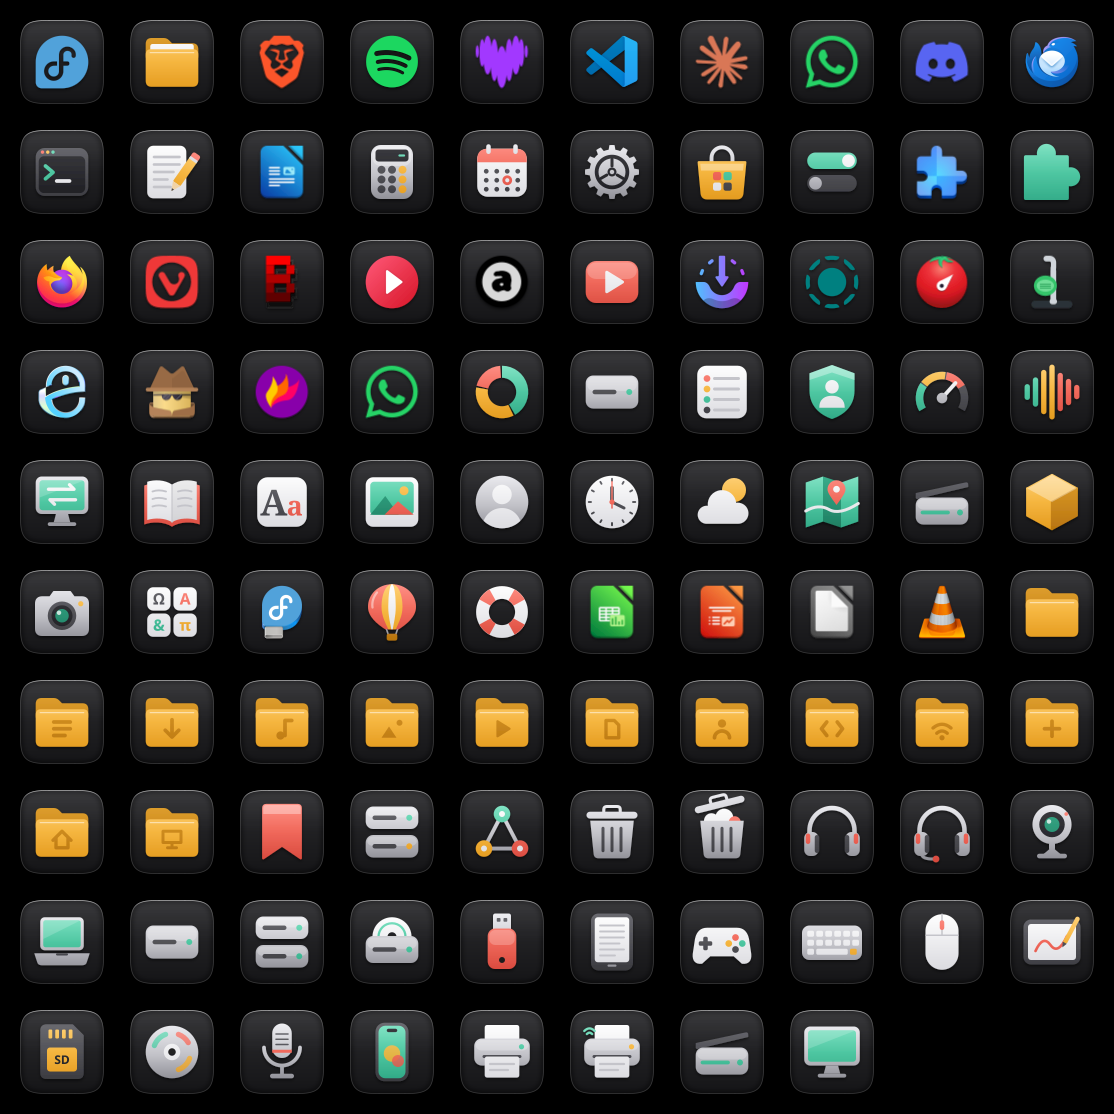
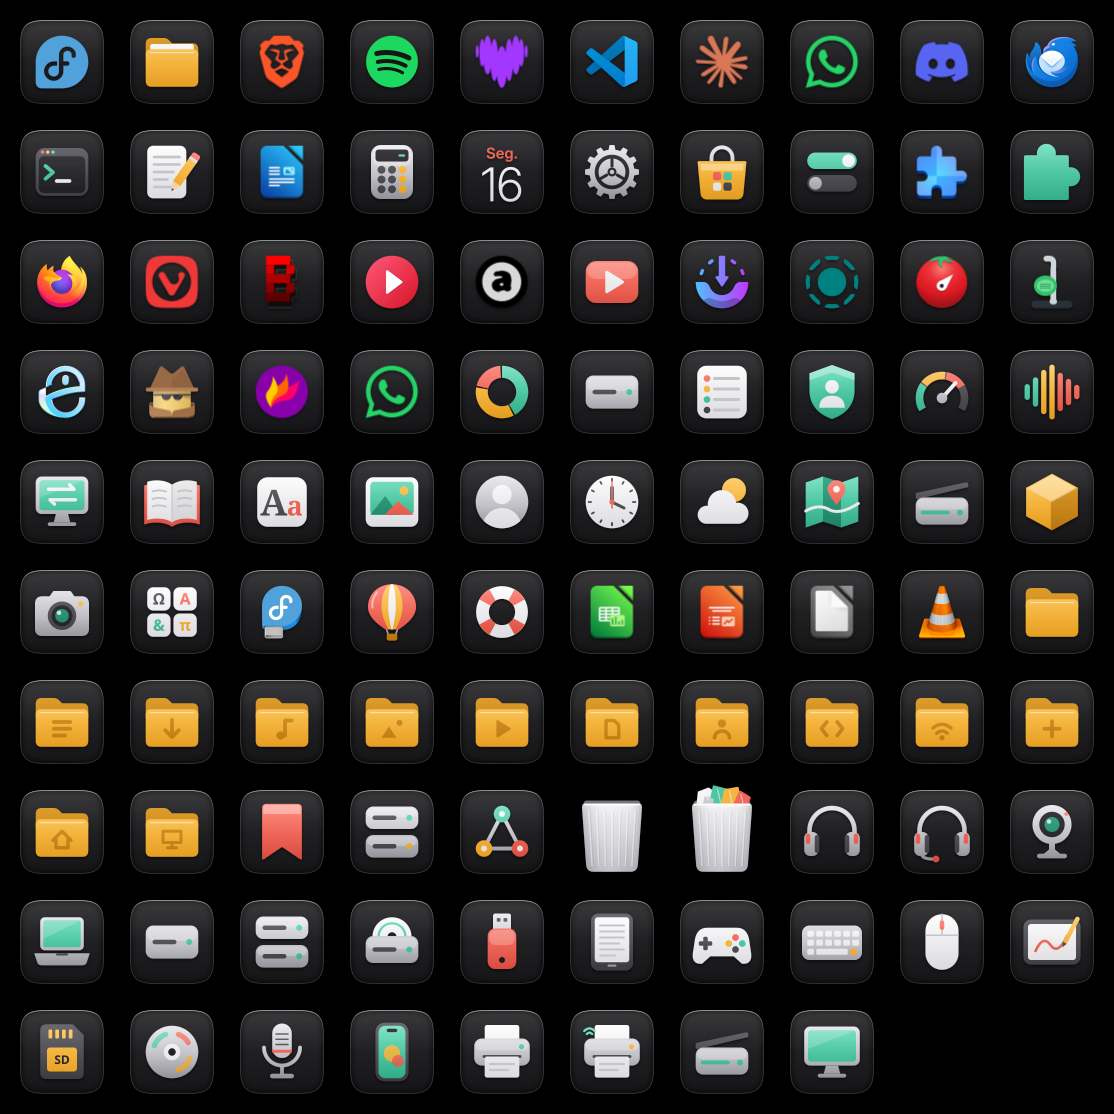
Calendário com a data de hoje e lixeira solta
- Calendário no estilo iOS escuro: dia da semana em coral e o número do
  dia grande; systemd/brisa-icons.timer regera o tema à meia-noite
- Lixeira sem tile, como no dock do Mac: cesto cinza translúcido e, cheia,
  papéis amassados em coral, âmbar e menta (fonte "solto:")
- Corrige o glifo inserido duas vezes por causa do marcador citado no
  comentário do template (o tema cai de 3,2 MB para 2,2 MB)

Changed region(s): [[0.4883, 0.702, 0.702, 0.7935], [0.4273, 0.1221, 0.4883, 0.1831]]

diff --git a/glifos.py b/glifos.py
@@ -149,9 +149,6 @@ def tela(x, y, w, h):
 
 NUVEM = "M44 93 A12 12 0 1 1 45.1 69.1 A19 19 0 1 1 82.9 65.2 A14 14 0 1 1 85 93 Z"
 PECA = "M34 46 H50 A9 9 0 1 1 66 46 H82 V61 A9 9 0 1 1 82 77 V94 H34 Z"
-LIXEIRA_CORPO = "M35 49 H93 L88.5 93 Q88 99 82 99 H46 Q40 99 39.5 93 Z"
-LIXEIRA_TAMPA = (FR(30, 37, 68, 9, 4.5, "prata")
-                 + S("M53 37 V34 Q53 30 57 30 H71 Q75 30 75 34 V37", "prata", 4))
 CONTROLE = ("M44 46 H84 Q96 46 99 60 L102 80 Q103 93 91 92 L80 82 H48 L37 92 "
             "Q25 93 26 80 L29 60 Q32 46 44 46 Z")
 
@@ -173,6 +170,63 @@ def fones(mic=False):
          + FR(29, 66, 6, 14, 3, "coral") + FR(93, 66, 6, 14, 3, "coral"))
     if mic:
         s += S("M37 94 Q38 100 52 100", "prata", 4) + FC(56, 100, 4.5, "coral")
+    return s
+
+
+FONTE_UI = "Adwaita Sans, Inter, Cantarell, sans-serif"
+
+
+def calendario_hoje():
+    """Calendário com a data de HOJE, no estilo do iOS escuro: dia da semana em
+    coral em cima e o número do dia grande e fino. O tema é regerado todo dia
+    à meia-noite (systemd/brisa-icons.timer) para a data acompanhar."""
+    import datetime
+    import locale
+    try:
+        locale.setlocale(locale.LC_TIME, "")
+    except locale.Error:
+        pass
+    hoje = datetime.date.today()
+    semana = hoje.strftime("%a").strip(".").capitalize()
+    if (locale.getlocale(locale.LC_TIME)[0] or "").startswith("pt"):
+        semana += "."          # "Seg.", "Ter.", ...
+    return (T(64, 46, semana, 20, "#F0685A", FONTE_UI, "600")
+            + T(64, 103, str(hoje.day), 62, "branco", FONTE_UI, "300"))
+
+
+# Lixeira "solta" (sem tile, como no dock do Mac): cesto cinza translúcido,
+# levemente afunilado, com frisos verticais; cheia, mostra papéis amassados.
+LIXEIRA_CORPO = "M24 31 Q24 26 29 26 H99 Q104 26 104 31 L98.5 108 Q97.5 117 88.5 117 H39.5 Q30.5 117 29.5 108 Z"
+LIXEIRA_DEFS = (
+    '<defs>'
+    '<linearGradient id="cesto" x1="0" y1="26" x2="0" y2="117" gradientUnits="userSpaceOnUse">'
+    '<stop offset="0" stop-color="#F7F7FA"/><stop offset="1" stop-color="#B9B9C1"/></linearGradient>'
+    '<linearGradient id="cesto-lados" x1="24" y1="0" x2="104" y2="0" gradientUnits="userSpaceOnUse">'
+    '<stop offset="0" stop-color="#000" stop-opacity="0.16"/><stop offset="0.28" stop-color="#FFF" stop-opacity="0.10"/>'
+    '<stop offset="0.5" stop-color="#FFF" stop-opacity="0.22"/><stop offset="0.75" stop-color="#FFF" stop-opacity="0"/>'
+    '<stop offset="1" stop-color="#000" stop-opacity="0.18"/></linearGradient>'
+    '</defs>')
+
+
+def lixeira(cheia=False):
+    s = LIXEIRA_DEFS + FR(26, 22, 76, 9, 4.5, "#76767D")          # boca (fundo escuro)
+    if cheia:
+        papeis = (("M31 30 L33 11 L46 6 L56 13 L54 30 Z", "#F4F4F7"),
+                  ("M47 30 L53 3 L72 8 L70 30 Z", "#4FC7A2"),
+                  ("M63 30 L68 8 L85 5 L89 30 Z", "#F5B53F"),
+                  ("M79 30 L88 10 L101 18 L97 30 Z", "#F0685A"),
+                  ("M39 30 L42 17 L52 21 L50 30 Z", "#C9C9CF"))
+        for d, cor in papeis:
+            s += FS(d, cor, 2.5)
+        s += S("M39 12 L47 22 M58 7 L62 24 M74 9 L77 25 M89 14 L92 25", "#FFFFFF", 1.5,
+               ' stroke-opacity="0.55"')
+    s += f'<path d="{LIXEIRA_CORPO}" fill="url(#cesto)" fill-opacity="0.96"/>'
+    s += f'<path d="{LIXEIRA_CORPO}" fill="url(#cesto-lados)"/>'
+    for i in range(7):                                             # frisos
+        xt, xb = 33 + i * 10.3, 37.5 + i * 8.83
+        s += S(f"M{xt:.1f} 36 L{xb:.1f} 109", "#FFFFFF", 1.6, ' stroke-opacity="0.45"')
+        s += S(f"M{xt + 2:.1f} 36 L{xb + 1.7:.1f} 109", "#000000", 1, ' stroke-opacity="0.07"')
+    s += S("M27 27.5 H101", "#FFFFFF", 2, ' stroke-opacity="0.9"')  # borda da boca
     return s
 
 
@@ -203,12 +257,7 @@ DESENHOS = {
                     + "".join(FC(x, y, 5.3, "ambar" if x == 78 else "grafite")
                               for y in (61, 74, 87) for x in (50, 64, 78))),
 
-    "calendario": (FR(31, 33, 66, 64, 14, "branco")
-                   + F("M31 47 Q31 33 45 33 H83 Q97 33 97 47 V51 H31 Z", "coral")
-                   + FR(43, 27, 6, 13, 3, "prata") + FR(79, 27, 6, 13, 3, "prata")
-                   + "".join(FC(x, y, 3.2, "grafite")
-                             for y in (63, 75, 87) for x in (43, 57, 71, 85) if (x, y) != (71, 75))
-                   + FC(71, 75, 6.5, "coral") + FC(71, 75, 2.8, "branco")),
+    "calendario": calendario_hoje(),
 
     "configuracoes": (F(engrenagem(64, 64, 36, 30, 12, 8.5, 5.5), "prata")
                       + FC(64, 64, 23, "grafite-escuro")
@@ -352,12 +401,8 @@ DESENHOS = {
     "rede": (S("M64 40 L40 86 M64 40 L88 86 M40 86 H88", "prata", 5)
              + FC(64, 40, 11, "menta") + FC(40, 86, 11, "ambar") + FC(88, 86, 11, "coral")
              + FC(64, 40, 4, "branco") + FC(40, 86, 4, "branco") + FC(88, 86, 4, "branco")),
-    "lixeira": (LIXEIRA_TAMPA + F(LIXEIRA_CORPO, "prata")
-                + S("M52 59 V89 M64 59 V89 M76 59 V89", "grafite", 4)),
-    "lixeira-cheia": (FC(50, 49, 10, "branco") + FC(67, 45, 12, "branco") + FC(81, 51, 8, "coral")
-                      + F(LIXEIRA_CORPO, "prata")
-                      + S("M52 59 V89 M64 59 V89 M76 59 V89", "grafite", 4)
-                      + G(LIXEIRA_TAMPA, "translate(-2 -6) rotate(-14 30 42)")),
+    "lixeira": lixeira(),
+    "lixeira-cheia": lixeira(cheia=True),
 
     # Dispositivos
     "fones": fones(),
@@ -527,8 +572,8 @@ ICONES_FIXOS = [
     ("Favoritos", "Lugares", "desenho:favoritos", ["user-bookmarks"], "places"),
     ("Servidor", "Lugares", "desenho:servidor", ["network-server"], "places"),
     ("Rede", "Lugares", "desenho:rede", ["network-workgroup"], "places"),
-    ("Lixeira", "Lugares", "desenho:lixeira", ["user-trash"], "places"),
-    ("Lixeira cheia", "Lugares", "desenho:lixeira-cheia", ["user-trash-full"], "places"),
+    ("Lixeira", "Lugares", "solto:lixeira", ["user-trash"], "places"),
+    ("Lixeira cheia", "Lugares", "solto:lixeira-cheia", ["user-trash-full"], "places"),
 
     ("Fones", "Dispositivos", "desenho:fones", ["audio-headphones"], "devices"),
     ("Headset", "Dispositivos", "desenho:headset", ["audio-headset"], "devices"),

diff --git a/gerar.py b/gerar.py
@@ -306,6 +306,8 @@ def montar_glifo(fonte, nome_icone):
     tipo, _, arg = fonte.partition(":")
     if tipo == "desenho":
         return DESENHOS[arg], "desenho próprio"
+    if tipo == "solto":
+        return DESENHOS[arg], "desenho próprio, sem tile"
     if tipo == "simple":
         _, licenca = SIMPLE_ICONS[arg]
         return logo_simple_icons(arg), f"Simple Icons: {arg} ({licenca})"
@@ -318,8 +320,12 @@ def montar_glifo(fonte, nome_icone):
 
 
 # ── Geração ───────────────────────────────────────────────────────────────
-def montar(template, corpo):
+def montar(template, corpo, tile=True):
     corpo = "\n".join("    " + parte for parte in corpo.replace("><", ">\n<").splitlines())
+    if not tile:
+        template = re.sub(r"\s*<!-- tile:inicio.*?<!-- tile:fim -->", "", template, flags=re.S)
+    # O marcador fica sozinho numa linha; o comentário do template não o repete.
+    assert template.count("{{GLIFO}}") == 1, "tile.svg deve ter um único {{GLIFO}}"
     return template.replace("{{GLIFO}}", corpo)
 
 
@@ -338,7 +344,7 @@ def escrever_index():
 def gerar():
     template = TEMPLATE.read_text()
     faltando = [f for _, _, f, _, _ in APPS + ICONES_FIXOS
-                if f.startswith("desenho:") and f[8:] not in DESENHOS
+                if f.split(":")[0] in ("desenho", "solto") and f.split(":", 1)[1] not in DESENHOS
                 or f.startswith("simple:") and f[7:] not in SIMPLE_ICONS]
     if faltando:
         sys.exit(f"Fontes não definidas em glifos.py: {', '.join(faltando)}")
@@ -360,7 +366,7 @@ def gerar():
         if corpo is None:
             problemas.append((rotulo, fonte, nomes[0], descricao, None))
             return
-        svg = montar(template, corpo)
+        svg = montar(template, corpo, tile=not fonte.startswith("solto:"))
         for nome in nomes:
             (novo / contexto / f"{nome}.svg").write_text(svg)
             escritos[nome] = rotulo

diff --git a/README.md b/README.md
@@ -19,6 +19,10 @@ tile escuro de vidro.
      (Arquivos, Configurações, Calculadora, Calendário, apps do GNOME), pastas,
      lixeira e dispositivos, usando coral `#F0685A`, âmbar `#F5B53F` e menta
      `#4FC7A2` com branco, prata e grafite.
+- **Calendário com a data de hoje** (dia da semana em coral e o número do dia), regerado
+  todo dia à meia-noite por `systemd/brisa-icons.timer`.
+- **Lixeira solta**, sem tile, como no dock do Mac: cesto cinza translúcido e, cheia,
+  papéis amassados em coral, âmbar e menta.
 - **Cobertura:** apps, pastas e lugares, lixeira e dispositivos. Ícones symbolic e de
   tipos de arquivo vêm do Adwaita (`Inherits=Adwaita,hicolor`).
 - **Apps novos ficam no padrão sozinhos:** um serviço do systemd vigia as pastas de
@@ -52,7 +56,7 @@ repositório (abra no navegador para conferir tudo antes de aplicar).
 | `glifos.py` | De onde vem cada ícone (`original`, `simple:<marca>` ou `desenho:<nome>`), os desenhos próprios e o mapa app → `.desktop`. |
 | `gerar.py` | Lê o `Icon=` real de cada `.desktop` instalado, monta os SVGs com esse nome e lista a fonte de cada um. Para trocar o nome do tema, mude `NOME_DO_TEMA` no topo. |
 | `fontes/simple-icons/` | Logos do Simple Icons usados, com as licenças em `LICENCA.md`. |
-| `systemd/` | `brisa-icons.path` vigia as pastas de apps; `brisa-icons.service` roda o gerador. |
+| `systemd/` | `brisa-icons.path` vigia as pastas de apps, `brisa-icons.timer` atualiza a data do Calendário à meia-noite e `brisa-icons.service` roda o gerador. |
 
 Pastas de `.desktop` lidas, nesta ordem: `~/.local/share/applications`,
 `~/.local/share/flatpak/exports/share/applications`,
@@ -82,8 +86,8 @@ journalctl --user -u brisa-icons.service    # log do serviço automático
 
 ```sh
 gsettings reset org.gnome.desktop.interface icon-theme
-systemctl --user disable --now brisa-icons.path brisa-icons.service
-rm ~/.config/systemd/user/brisa-icons.{path,service}
+systemctl --user disable --now brisa-icons.path brisa-icons.timer brisa-icons.service
+rm ~/.config/systemd/user/brisa-icons.{path,timer,service}
 rm -r ~/.local/share/icons/Brisa
 ```
 
